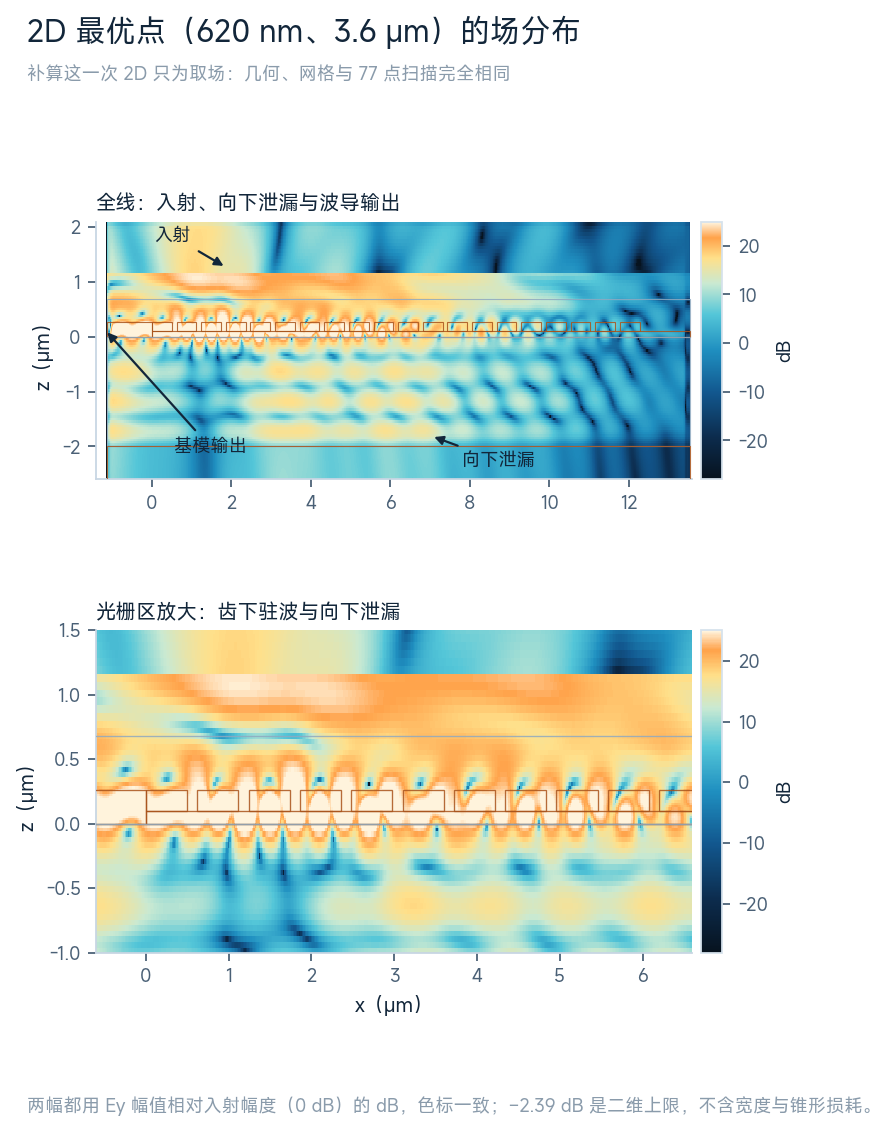
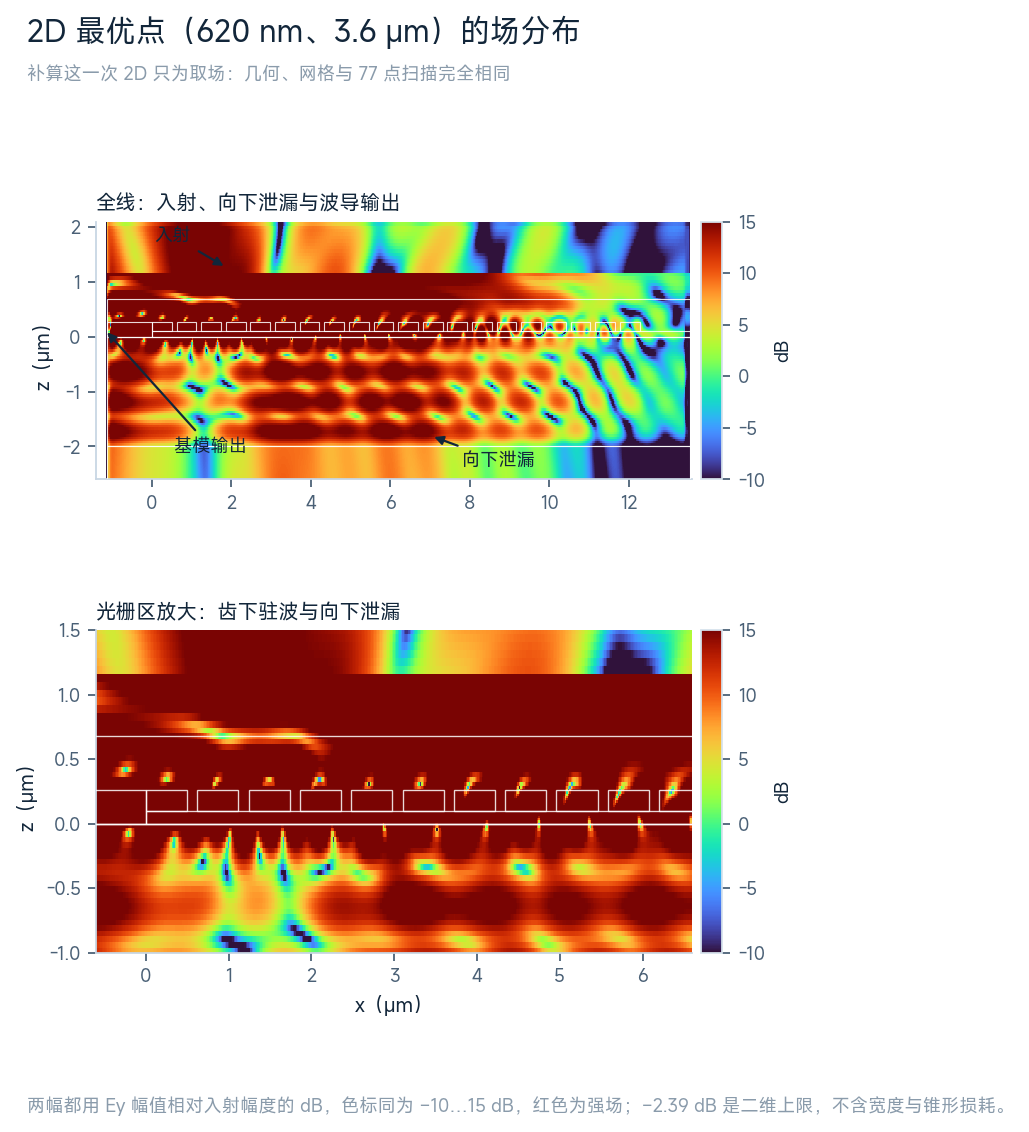
内容：场图改用红蓝过渡配色，强场标红便于看清波导
- 图 3 两幅换 turbo 色带，色标收窄到 −10…15 dB，红色为强场，共振热点按上限截断
- 图 5 同步换色带，对数色标保留
- 结构轮廓在场上改为白线，避免与红色强场混在一起
- 图注与 SOURCES 逐图说明同步新色标与配色

diff --git a/content/photon/grating-couplers/SOURCES.md b/content/photon/grating-couplers/SOURCES.md
@@ -79,9 +79,9 @@
 | `figures/05-three-routes.svg` | 本项目原创结构示意：三条路线的设计自由度对照，齿宽与周期未按真实比例 |
 | `figures/06-uniform-setup.svg` | 本项目绘图：2D 扫描设置。几何、源与监视器取自 `make_2d_sim(0.62, 3.6)`；source_x 按 `source.center[0]` 到光栅起点 x = 0 绘制；网格图对应实际 7 × 11 个扫描点 |
 | `figures/07-uniform-sweep.svg` | 本项目数据图：77 点 2D 扫描的耦合效率，色标固定 −9…−2 dB，等高线 −7…−3 dB，空心圈标注网格最优 620 nm / 3.6 μm |
-| `figures/08-uniform-field-2d.png` | 本项目补算结果：最优点那组几何加场监视器重跑一次 2D。上下同色标 −28…25 dB（Ey 幅值相对入射幅度 1 V/m）；光栅区峰值约 33 dB，超出部分按色标上限截断 |
+| `figures/08-uniform-field-2d.png` | 本项目补算结果：最优点那组几何加场监视器重跑一次 2D。上下同色标 −10…15 dB（Ey 幅值相对入射幅度 1 V/m），红蓝过渡配色、红为强场；光栅区峰值约 33 dB，超出部分按上限截断 |
 | `figures/09-uniform-structure-3d.svg` | 本项目绘图：3D 模型的真实结构，轮廓遍历 `simulation.structures` 的 Box / PolySlab 得到，无手绘；俯视按真实比例，齿距在 12.4 μm 尺度下不可分辨 |
-| `figures/10-uniform-field-3d.png` | 3D 求解的原生栅格场图：Ey 幅值对数色标，λ = 1.55 μm，上为全线、下为光栅区放大；结构轮廓同 09，含 680 nm 上包层 |
+| `figures/10-uniform-field-3d.png` | 3D 求解的原生栅格场图：Ey 幅值对数色标、红蓝过渡配色（红为强场），λ = 1.55 μm，上为全线、下为光栅区放大；结构轮廓同 09，含 680 nm 上包层 |
 | `figures/11-uniform-spectrum.svg` | 本项目数据图：左为 1500–1600 nm 效率与 −1/−3 dB 参考线，右为三条功率去路；101 点、1 nm 步长 |
 | `video/uniform-field-confinement.gif` | 本项目沿用原 3D FDTD 模型，保留几何、光源、网格和原监视器，新增硅层内的 `field_xy_core`（z = 0.18 μm，Ey）补跑一次。俯视和 `field_xz` 中心剖面（y = 0）均取自该次补跑。按监视器实际坐标线性重采样，叠加 `simulation.structures` 中硅结构的俯视轮廓与中心剖面。横坐标共用，纵坐标各自放大。λ = 1.55 μm，24 帧均匀扫描一周相位，以 Re(Ey·e⁻ⁱᵠ) 绘制。两图共用零点对称的 asinh 色标（软化尺度 0.7 V/m，超出 ±35 V/m 的值截断）。用 Pillow 与 FFmpeg 制作，图中文字用小米 MiSans，字体文件不随图分发 |
 
@@ -104,7 +104,7 @@
 - 周期剖面与位置剖面的数字是否与上表、图 2 的等高线一致；正文不再出现「几个纳米公差」「偏 1 μm 掉零点几 dB」这类超出网格分辨的表述。
 - 608 nm 的算式是否按 Snell 不变量复算（0.2504），读者按 1.44 × sin 14.5° 复算会得到 636 nm，正文与图注是否已说明差异来源。
 - 3D 的 −4.20 dB（峰值 1548 nm）与 37.8%（1550 nm）是否在各处都标了波长；2D 的 −2.39 dB 是否只作二维上限引用。
-- 图 3 的 dB 归一化基准是入射幅度 1 V/m，两幅共用 −28…25 dB 色标，光栅区峰值约 33 dB 被上限截断，须与图注一致；图 3、图 4、图 5 的结构轮廓都来自 `simulation.structures`，若更换求解模型需重出。
+- 图 3 的 dB 归一化基准是入射幅度 1 V/m，两幅共用 −10…15 dB 色标，光栅区峰值约 33 dB 被上限截断，须与图注一致；图 3、图 4、图 5 的结构轮廓都来自 `simulation.structures`，若更换求解模型需重出。
 - 动图 1 的俯视场横切硅齿、锥形和条波导，采样高度 z = 0.18 μm 高于 0.10 μm 的未刻蚀底层。白线标出该高度的硅结构边缘，用同一时相的中心剖面核对硅层附近的场约束。动图表征单频稳态场，功率与损耗读数仍以原求解的监视器结果为准。
 - 成本数字取自 `sources/cost-estimate.json` 的估算，不是账单；若平台调价或改用自适应网格，27 倍这个量级需要复核。
 - 07-uniform-sweep 的色标与等高线来自原脚本，重绘时须保持 −9…−2 dB 的固定色标，避免颜色放大差异。

diff --git a/content/photon/grating-couplers/02-uniform.md b/content/photon/grating-couplers/02-uniform.md
@@ -58,7 +58,7 @@
 
 57.7% 这个数看不出光去了哪儿。把最优点那组几何原样重跑一次，加一个场监视器，仍然是 2D。
 
-![图 3：2D 最优点（620 nm、3.6 μm）的场分布。两幅同色标，Ey 幅值相对入射幅度取 dB，0 dB 即入射：上为全线，光栅区被共振增强到 25 dB 以上，向下泄漏在衬底一侧连成斜向条纹；下为光栅区放大，齿下驻波与向下泄漏更清楚。剖面在 y = 0，结构与图 1 一致。](figures/08-uniform-field-2d.png)
+![图 3：2D 最优点（620 nm、3.6 μm）的场分布。两幅同色标，Ey 幅值相对入射幅度取 dB，色标 −10…15 dB，红为强场、蓝为弱场，更强的共振热点按上限截断：上为全线，向下泄漏在衬底一侧连成斜向条纹；下为光栅区放大，齿下驻波与向下泄漏更清楚。剖面在 y = 0，结构与图 1 一致。](figures/08-uniform-field-2d.png)
 
 光束在空气里 14.5°，进 SiO₂ 后明显变陡，约 10°，就是上一节 0.2504 的来处。每个齿下方都有局部热点，齿间场连续，说明它按一个漏波工作，不是一堆独立散射体。向下泄漏的条纹斜而连续，一直走到 BOX 以下，这部分在 3D 收支里占 26.3%。
 
@@ -72,7 +72,7 @@
 
 二是损耗。从 10.8 μm 收到 0.5 μm，理想绝热需要很长的距离，50 μm 不够。
 
-![图 5：3D 求解的 |Ey|，剖面在 y = 0，结构轮廓取自求解模型本身。上：全线，斜入射光束、光栅区与 50 μm 锥形。下：光栅区放大，齿上的散射与向下泄漏清楚。图中 14.5° 是空气中的角度，进入 680 nm 上包层后约 10°。](figures/10-uniform-field-3d.png)
+![图 5：3D 求解的 |Ey|，剖面在 y = 0，结构轮廓取自求解模型本身。对数色标，红为强场、蓝为弱场。上：全线，斜入射光束、光栅区与 50 μm 锥形；下：光栅区放大，齿上的散射与向下泄漏。图中 14.5° 是空气中的角度，进入 680 nm 上包层后约 10°。](figures/10-uniform-field-3d.png)
 
 ![动图 1：1.55 μm 的 3D FDTD 单频相位动画。白线勾勒硅结构。上图在硅层内 z = 0.18 μm 俯视，沿线性锥形向左看，场条纹收窄到单模波导。下图在 y = 0 剖开，显示硅层附近的场。两图用同一色标同步显示 Re(Ey)，循环展示稳态场的相位。](video/uniform-field-confinement.gif)
 
